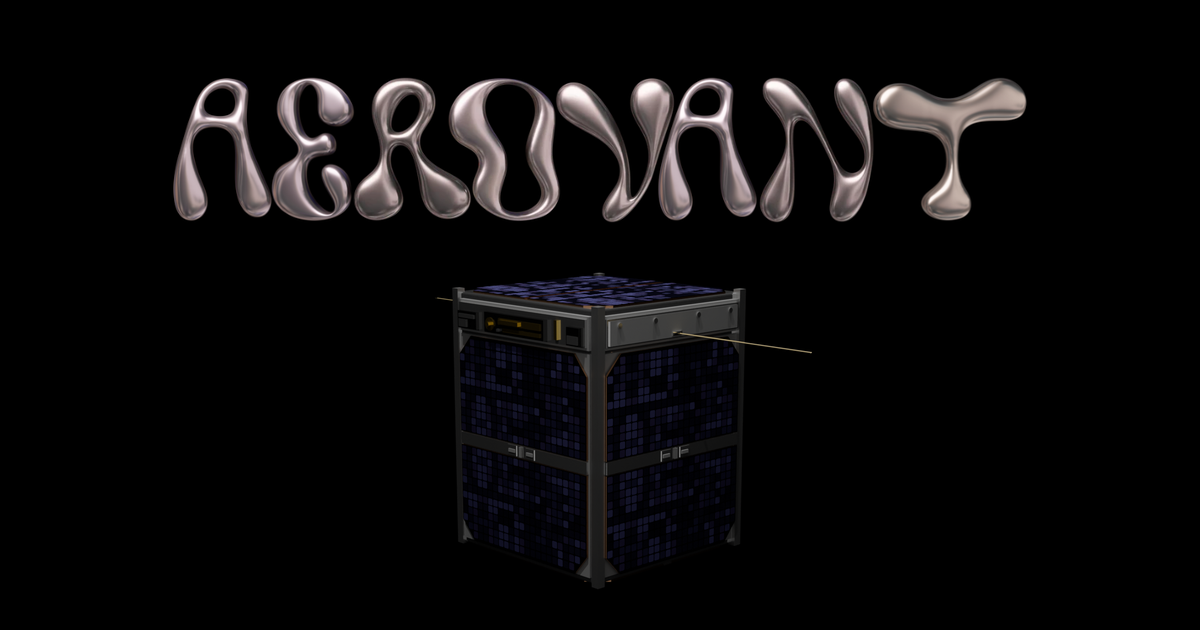
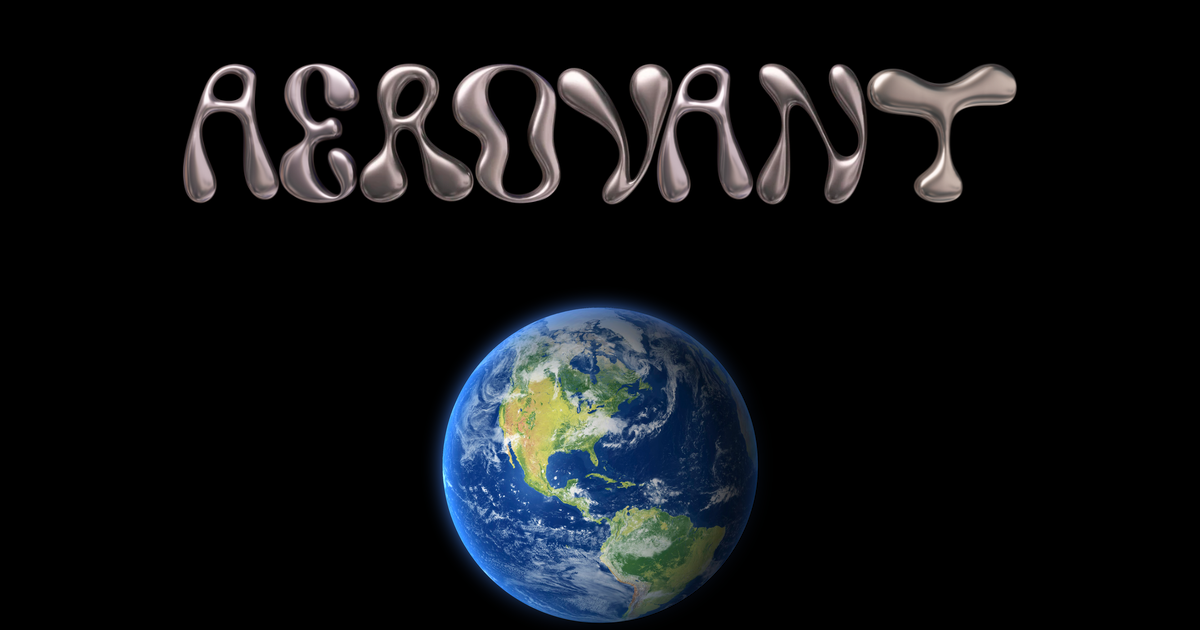
Add files via upload

Changed region(s): [[0.1233, 0.0905, 0.8633, 0.3619], [0.3392, 0.4222, 0.6783, 0.9952]]

diff --git a/index.html b/index.html
@@ -4,15 +4,15 @@
   <meta charset="utf-8">
   <meta name="viewport" content="width=device-width, initial-scale=1, viewport-fit=cover">
   <title>Aerovant | AV-1 Founders' Flight</title>
-  <meta name="description" content="Donate to AV-1's development and have your name sent into orbit around our planet.">
+  <meta name="description" content="Donate to support AV-1's development and have your name sent into orbit around our planet.">
   <meta name="theme-color" content="#000000">
   <meta name="color-scheme" content="dark">
 
   <meta property="og:type" content="website">
   <meta property="og:title" content="AV-1 Founders' Flight | Aerovant">
-  <meta property="og:description" content="Donate to AV-1's development and have your name sent into orbit around our planet.">
-  <meta property="og:url" content="https://projectaerovant.github.io/AEROVANTDOTSPACE/">
-  <meta property="og:image" content="https://projectaerovant.github.io/AEROVANTDOTSPACE/og.png">
+  <meta property="og:description" content="Donate to support AV-1's development and have your name sent into orbit around our planet.">
+  <meta property="og:url" content="https://aerovant.space/">
+  <meta property="og:image" content="https://aerovant.space/og.png">
   <meta property="og:image:width" content="1200">
   <meta property="og:image:height" content="630">
   <meta name="twitter:card" content="summary_large_image">
@@ -30,45 +30,56 @@
 
   <section class="stage">
     <div class="stage-inner">
-      <svg class="orbits" viewBox="-470 -150 940 300" role="img" aria-label="The AV-1 satellite with two orbits around it">
+      <svg class="orbits" viewBox="-470 -170 940 340" role="img" aria-label="Two AV-1 satellites orbiting Earth">
         <defs>
-          <clipPath id="far"><rect x="-600" y="-400" width="1200" height="400"/></clipPath>
-          <clipPath id="near"><rect x="-600" y="0" width="1200" height="400"/></clipPath>
+          <clipPath id="far"><rect x="-600" y="-400" width="1200" height="400.4"/></clipPath>
+          <clipPath id="near"><rect x="-600" y="-0.4" width="1200" height="400.4"/></clipPath>
           <path id="loopA" d="M-440 0A440 96 0 0 1 440 0A440 96 0 0 1 -440 0"/>
           <path id="loopB" d="M-350 0A350 58 0 0 0 350 0A350 58 0 0 0 -350 0"/>
+
+          <radialGradient id="glowBrass"><stop offset="0" stop-color="#c9a455" stop-opacity="0.34"/><stop offset="1" stop-color="#c9a455" stop-opacity="0"/></radialGradient>
+          <radialGradient id="glowChrome"><stop offset="0" stop-color="#e7e0e2" stop-opacity="0.26"/><stop offset="1" stop-color="#e7e0e2" stop-opacity="0"/></radialGradient>
         </defs>
 
-        <!-- far side of each orbit, behind the satellite -->
+        <!-- far side of each orbit, behind Earth -->
         <g transform="rotate(-9)">
           <g clip-path="url(#far)">
             <path class="orbit" pathLength="1" d="M-440 0A440 96 0 0 1 440 0"/>
-            <g class="bead"><circle class="halo" r="11"/><circle class="core" r="3"/>
-              <animateMotion dur="26s" repeatCount="indefinite"><mpath href="#loopA"/></animateMotion></g>
+            <g class="bead brass">
+              <circle class="sat-glow" r="46"/><image href="satellite.png" x="-34" y="-26.4" width="68" height="52.8" transform="rotate(9)"/>
+              <animateMotion dur="26s" repeatCount="indefinite"><mpath href="#loopA"/></animateMotion>
+            </g>
           </g>
         </g>
         <g transform="rotate(13)">
           <g clip-path="url(#far)">
             <path class="orbit thin" pathLength="1" d="M-350 0A350 58 0 0 1 350 0"/>
-            <g class="bead alt"><circle class="halo" r="8"/><circle class="core" r="2.2"/>
-              <animateMotion dur="39s" repeatCount="indefinite"><mpath href="#loopB"/></animateMotion></g>
+            <g class="bead chrome">
+              <circle class="sat-glow" r="36"/><image href="satellite.png" x="-26" y="-20.2" width="52" height="40.4" transform="rotate(-13)"/>
+              <animateMotion dur="39s" repeatCount="indefinite"><mpath href="#loopB"/></animateMotion>
+            </g>
           </g>
         </g>
 
-        <image class="craft" href="satellite.png" x="-170" y="-132" width="340" height="264"/>
+        <image class="earth" href="earth.webp" x="-165" y="-165" width="330" height="330"/>
 
-        <!-- near side of each orbit, in front of the satellite -->
+        <!-- near side of each orbit, in front of Earth -->
         <g transform="rotate(-9)">
           <g clip-path="url(#near)">
             <path class="orbit near" pathLength="1" d="M-440 0A440 96 0 0 0 440 0"/>
-            <g class="bead"><circle class="halo" r="11"/><circle class="core" r="3"/>
-              <animateMotion dur="26s" repeatCount="indefinite"><mpath href="#loopA"/></animateMotion></g>
+            <g class="bead brass">
+              <circle class="sat-glow" r="46"/><image href="satellite.png" x="-34" y="-26.4" width="68" height="52.8" transform="rotate(9)"/>
+              <animateMotion dur="26s" repeatCount="indefinite"><mpath href="#loopA"/></animateMotion>
+            </g>
           </g>
         </g>
         <g transform="rotate(13)">
           <g clip-path="url(#near)">
             <path class="orbit thin near" pathLength="1" d="M-350 0A350 58 0 0 0 350 0"/>
-            <g class="bead alt"><circle class="halo" r="8"/><circle class="core" r="2.2"/>
-              <animateMotion dur="39s" repeatCount="indefinite"><mpath href="#loopB"/></animateMotion></g>
+            <g class="bead chrome">
+              <circle class="sat-glow" r="36"/><image href="satellite.png" x="-26" y="-20.2" width="52" height="40.4" transform="rotate(-13)"/>
+              <animateMotion dur="39s" repeatCount="indefinite"><mpath href="#loopB"/></animateMotion>
+            </g>
           </g>
         </g>
       </svg>
@@ -92,7 +103,7 @@
   </footer>
 
   <script>
-    // Respect reduced-motion: freeze the orbiting lights partway round instead of animating them.
+    // Respect reduced-motion: freeze the satellites partway round instead of animating them.
     (function () {
       var svg = document.querySelector('.orbits');
       if (svg && svg.pauseAnimations && window.matchMedia('(prefers-reduced-motion: reduce)').matches) {

diff --git a/style.css b/style.css
@@ -66,7 +66,7 @@ svg {
   margin-inline: auto;
 }
 
-/* Stage: satellite and orbits. Full width; the drawing is allowed to bleed off narrow screens. */
+/* Stage: Earth and orbits. Full width; the drawing is allowed to bleed off narrow screens. */
 
 .stage {
   position: relative;
@@ -78,7 +78,7 @@ svg {
   content: "";
   position: absolute;
   inset: 0;
-  background: radial-gradient(ellipse 34% 52% at 50% 50%, rgba(46, 43, 110, 0.55), transparent 72%);
+  background: radial-gradient(ellipse 34% 52% at 50% 50%, rgba(28, 58, 140, 0.4), transparent 72%);
   pointer-events: none;
 }
 
@@ -115,25 +115,17 @@ svg {
   stroke-opacity: 0.5;
 }
 
-.bead .halo {
-  fill: var(--brass);
-  fill-opacity: 0.22;
+/* Satellites */
+
+.sat-glow {
+  fill: url(#glowBrass);
 }
 
-.bead .core {
-  fill: #f6e2b0;
+.bead.chrome .sat-glow {
+  fill: url(#glowChrome);
 }
 
-.bead.alt .halo {
-  fill: var(--chrome);
-  fill-opacity: 0.18;
-}
-
-.bead.alt .core {
-  fill: #fff;
-}
-
-/* One entrance: the orbits draw themselves, the satellite arrives, the lights switch on. */
+/* One entrance: the orbits draw themselves, Earth fades in, the satellites appear. */
 
 @media (prefers-reduced-motion: no-preference) {
   .orbit {
@@ -145,7 +137,7 @@ svg {
     animation-delay: 0.5s;
   }
 
-  .craft {
+  .earth {
     animation: arrive 1.4s ease-out 0.1s both;
   }
 
